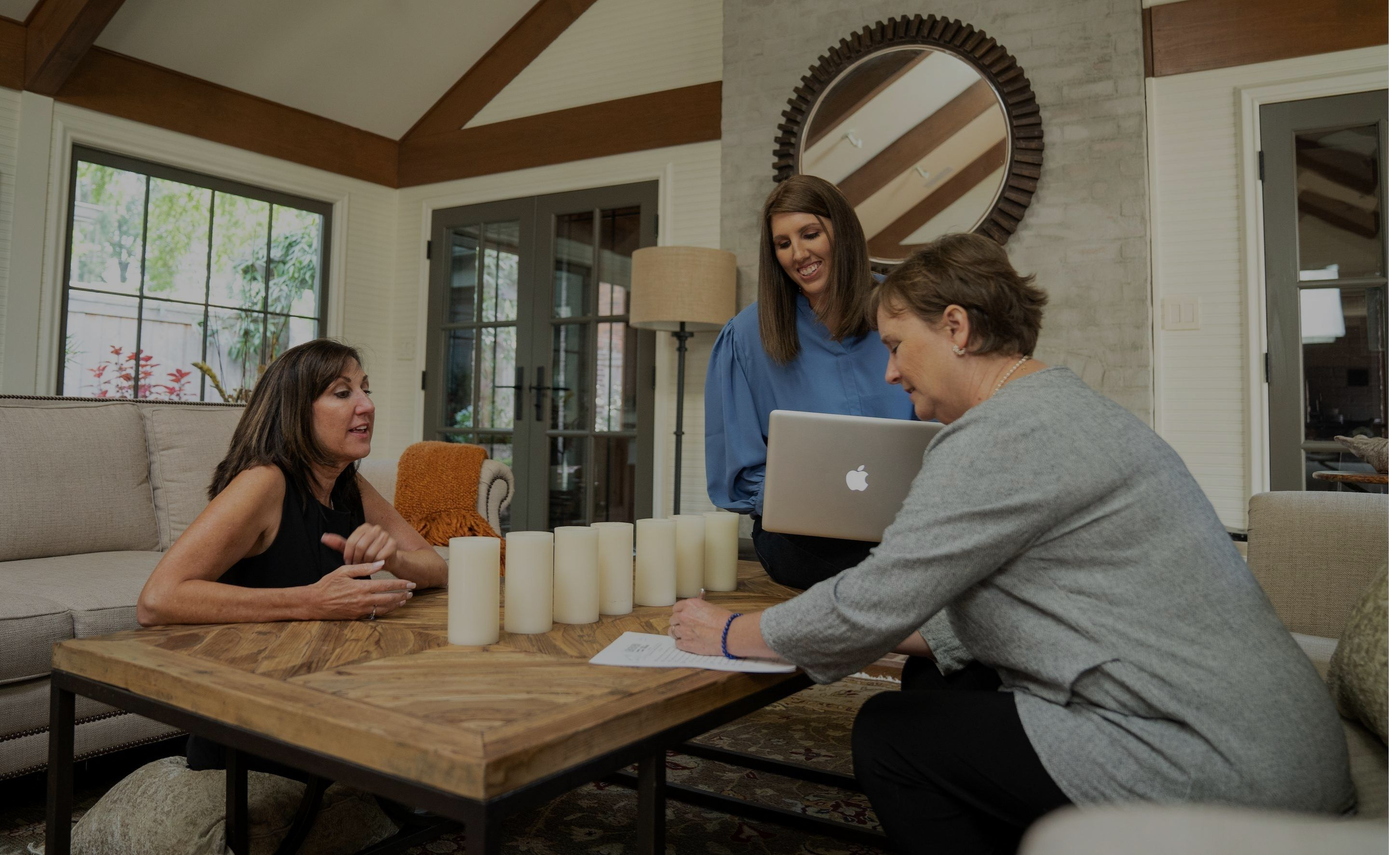
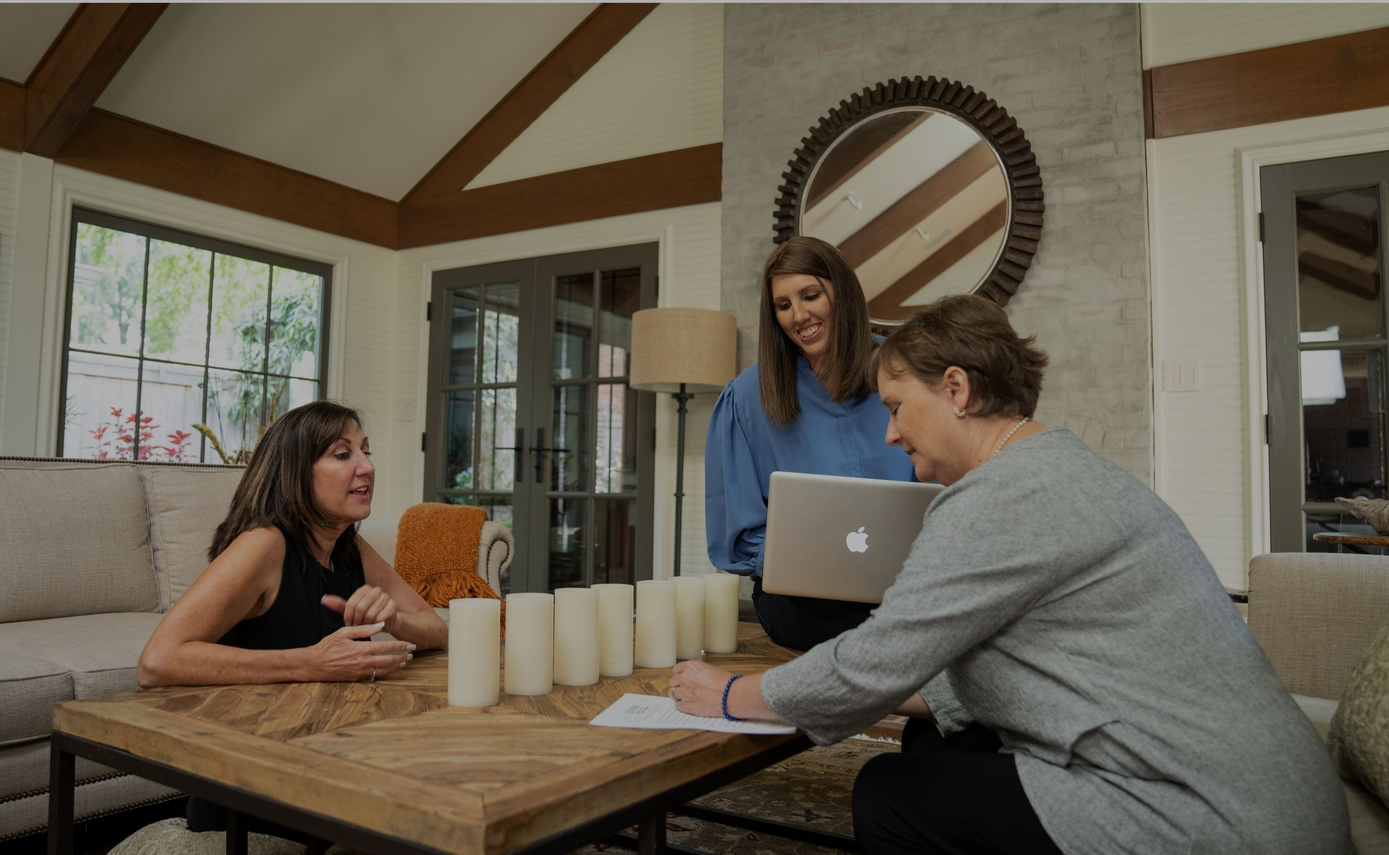
updated navbar and images

diff --git a/assets/css/main.css b/assets/css/main.css
@@ -1,2 +1,35 @@
 .logo-default { height: 50px; }
 section#home { padding-top: 50px; }
+
+.is-stuck .navbar-brand {
+    padding-top: 12px;
+    padding-bottom: 12px;
+}
+
+.navbar-brand img.logo-default {
+    height: 100px;
+}
+
+.navbar-brand {
+    padding: 12px 0;
+}
+
+.mainbar-wrap {
+    background-color: white;
+}
+
+.main-nav > li.is-active > a {
+    color: rgba(0, 0, 0, 0.7);
+}
+
+.main-header .social-icon:not([class*=scheme-]) a, .main-nav > li > a {
+    color: rgba(0, 0, 0, 0.7);
+}
+
+.main-nav > li.is-active > a, .main-nav > li.current-menu-item > a, .main-nav > li:hover > a, .main-nav > li > a:hover {
+    color: black;
+}
+
+.main-header .social-icon:not([class*=scheme-]) a:hover, .main-nav > li > a:hover {
+    color: black;
+}
